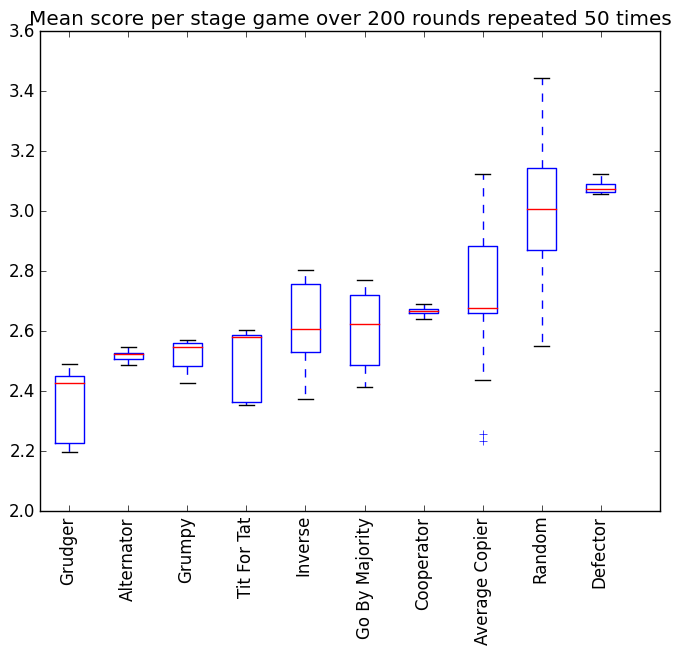
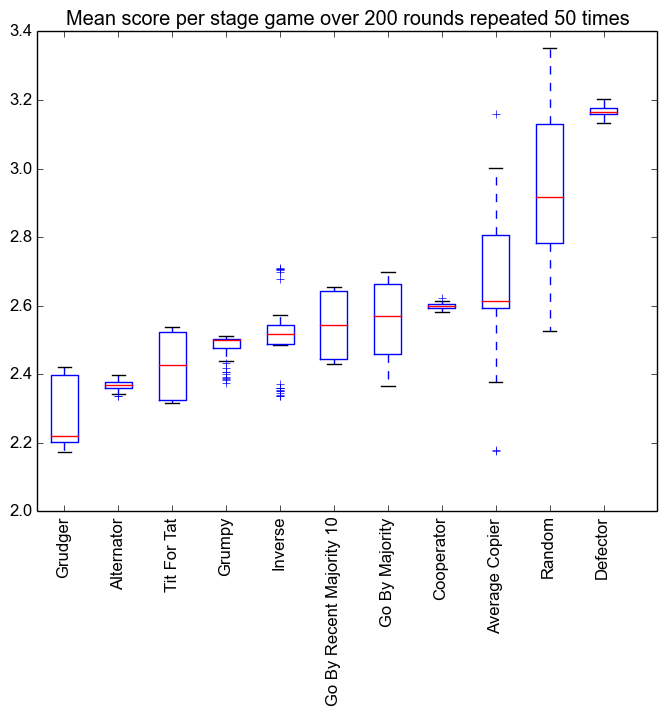
Add GoByRecentMajority10

diff --git a/axelrod/strategies/gobyrecent.py b/axelrod/strategies/gobyrecent.py
@@ -1,0 +1,22 @@
+from axelrod import Player
+
+class GoByRecentMajority10(Player):
+    """
+    A player examines the history of the opponent: if the opponent has more defections than cooperations in the past 10 turns then the player defects
+    """
+    def strategy(self, opponent):
+        """
+        This is affected by the history of the opponent:
+        As long as the opponent cooperates at least as often as they defect in the past 10 turns then the player will defect.
+        If at any point the opponent has more defections than cooperations the player defects.
+        """
+        recent10 = opponent.history[-10:]
+        if sum([s == 'D' for s in recent10]) > sum([s == 'C' for s in recent10]):
+            return 'D'
+        return 'C'
+
+    def __repr__(self):
+        """
+        The string method for the strategy.
+        """
+        return 'Go By Recent Majority 10'

diff --git a/axelrod/strategies/__init__.py b/axelrod/strategies/__init__.py
@@ -4,6 +4,7 @@ from grudger import *
 from rand import *
 from titfortat import *
 from gobymajority import *
+from gobyrecent import *
 from alternator import *
 from grumpy import *
 from averagecopier import *
@@ -17,6 +18,7 @@ strategies = [
         TitForTat,
         Grudger,
         GoByMajority,
+        GoByRecentMajority10,
         Random,
         Alternator,
         Grumpy,
